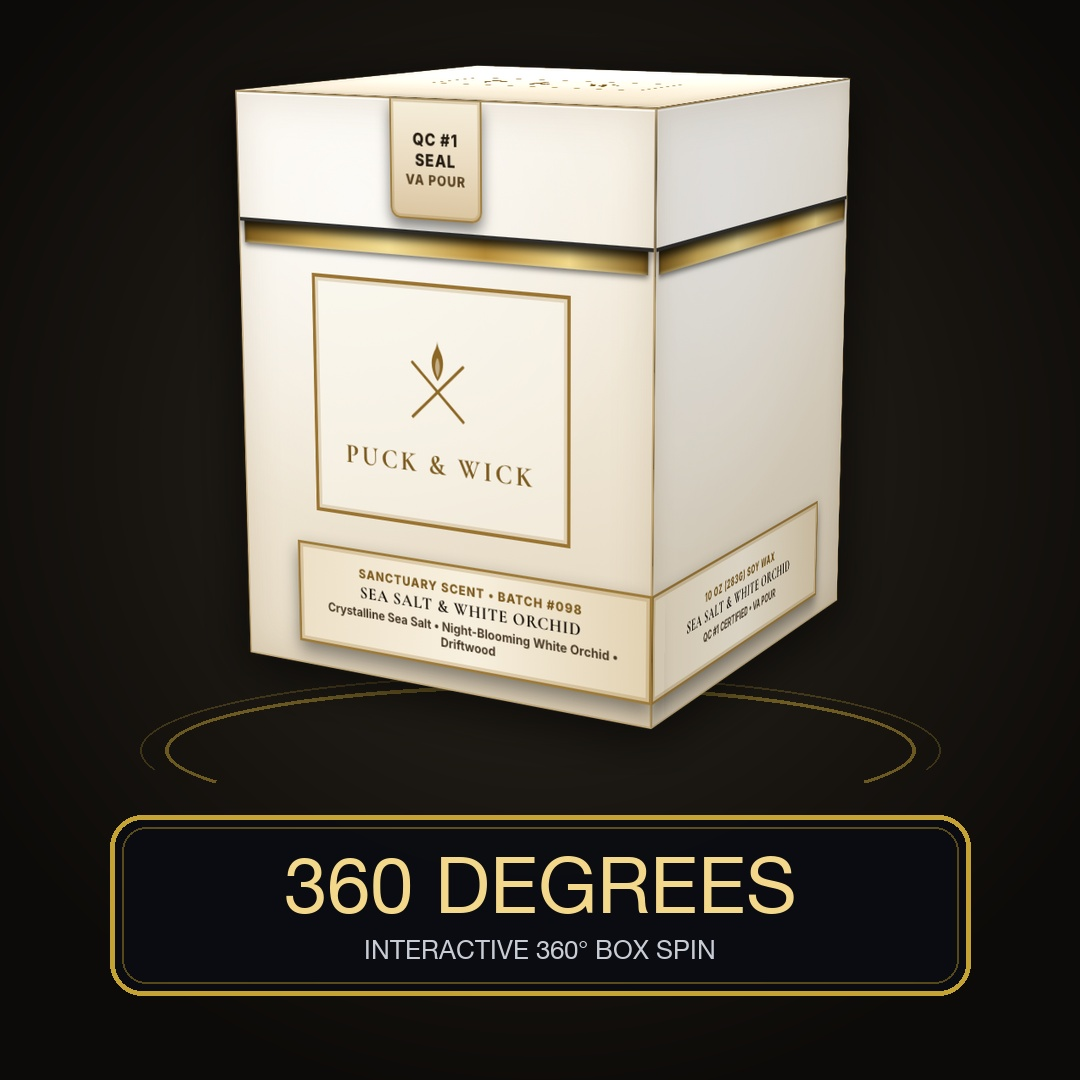
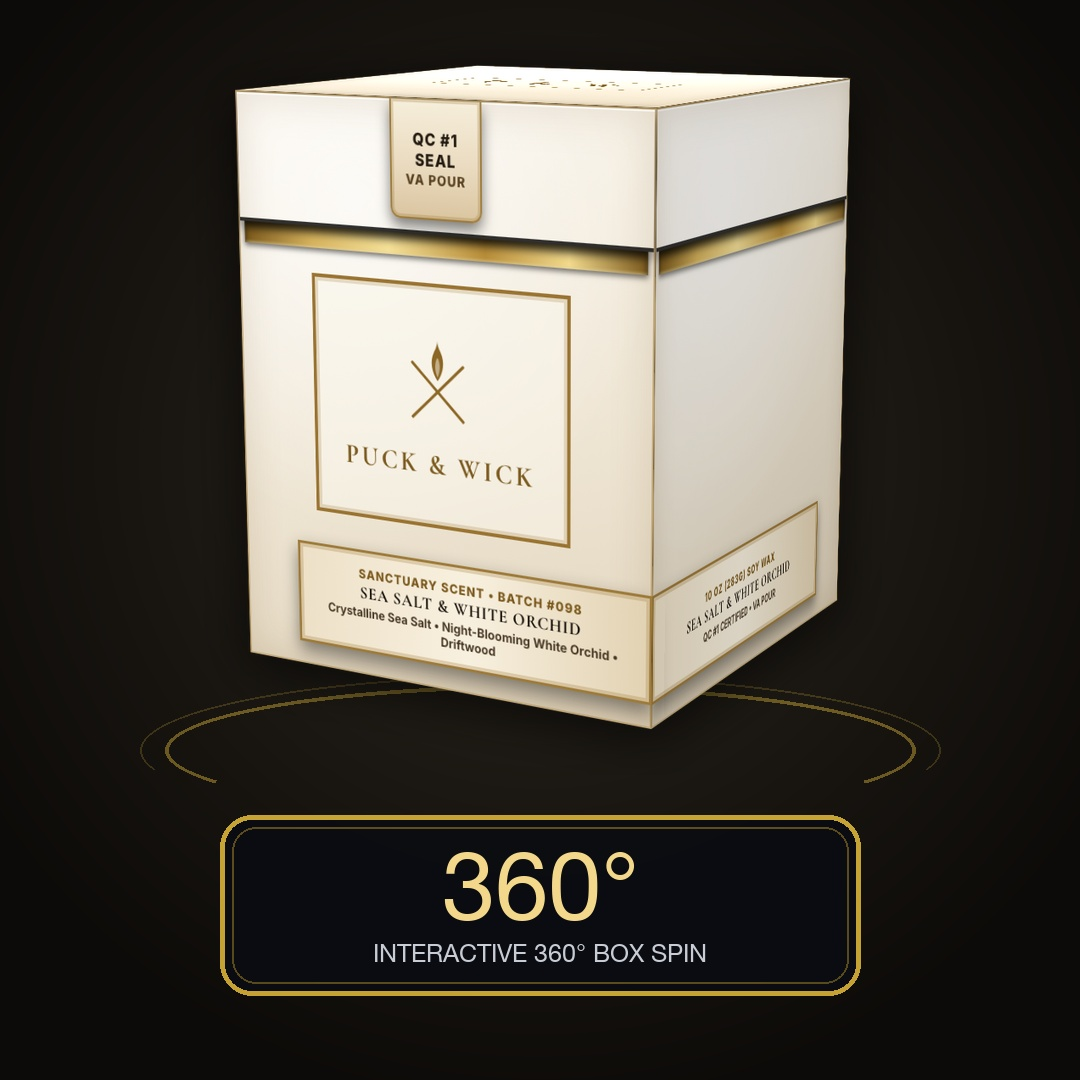
Remove bottom scent sticker from Box tab photos for all Men's & Women's candles and use 360° degree symbol (v46)

diff --git a/index.html b/index.html
@@ -33,40 +33,40 @@
   <meta name="twitter:image" content="https://puckandwick.com/assets/images/og-share-banner-v2.png">
 
   <!-- Core Theme & Layout Stylesheets (Cache-Busted v31) -->
-  <link rel="stylesheet" href="css/variables.css?v=45">
-  <link rel="stylesheet" href="css/base.css?v=45">
-  <link rel="stylesheet" href="css/nav.css?v=45">
-  <link rel="stylesheet" href="css/hero.css?v=45">
-  <link rel="stylesheet" href="css/catalog.css?v=45">
-  <link rel="stylesheet" href="css/modal.css?v=45">
-  <link rel="stylesheet" href="css/cart.css?v=45">
-  <link rel="stylesheet" href="css/checkout.css?v=45">
-  <link rel="stylesheet" href="css/box-builder.css?v=45">
-  <link rel="stylesheet" href="css/odor-science.css?v=45">
-  <link rel="stylesheet" href="css/brand-studio.css?v=45">
-  <link rel="stylesheet" href="css/story.css?v=45">
-  <link rel="stylesheet" href="css/stockist.css?v=45">
-  <link rel="stylesheet" href="css/footer.css?v=45">
-  <link rel="stylesheet" href="css/responsive.css?v=45">
+  <link rel="stylesheet" href="css/variables.css?v=46">
+  <link rel="stylesheet" href="css/base.css?v=46">
+  <link rel="stylesheet" href="css/nav.css?v=46">
+  <link rel="stylesheet" href="css/hero.css?v=46">
+  <link rel="stylesheet" href="css/catalog.css?v=46">
+  <link rel="stylesheet" href="css/modal.css?v=46">
+  <link rel="stylesheet" href="css/cart.css?v=46">
+  <link rel="stylesheet" href="css/checkout.css?v=46">
+  <link rel="stylesheet" href="css/box-builder.css?v=46">
+  <link rel="stylesheet" href="css/odor-science.css?v=46">
+  <link rel="stylesheet" href="css/brand-studio.css?v=46">
+  <link rel="stylesheet" href="css/story.css?v=46">
+  <link rel="stylesheet" href="css/stockist.css?v=46">
+  <link rel="stylesheet" href="css/footer.css?v=46">
+  <link rel="stylesheet" href="css/responsive.css?v=46">
 
   <!-- Module Cache-Busting Import Map (Forces Fresh Fetch of All ES Modules) -->
   <script type="importmap">
   {
     "imports": {
-      "./js/app.js": "./js/app.js?v=45",
-      "./js/data/products.js": "./js/data/products.js?v=45",
-      "./js/data/box-data.js": "./js/data/box-data.js?v=45",
-      "./js/data/logos.js": "./js/data/logos.js?v=45",
-      "./js/utils/svg-assets.js": "./js/utils/svg-assets.js?v=45",
-      "./js/modules/navigation.js": "./js/modules/navigation.js?v=45",
-      "./js/modules/catalog.js": "./js/modules/catalog.js?v=45",
-      "./js/modules/modal.js": "./js/modules/modal.js?v=45",
-      "./js/modules/cart.js": "./js/modules/cart.js?v=45",
-      "./js/modules/checkout.js": "./js/modules/checkout.js?v=45",
-      "./js/modules/box-builder.js": "./js/modules/box-builder.js?v=45",
-      "./js/modules/brand-studio.js": "./js/modules/brand-studio.js?v=45",
-      "./js/modules/jar-mockup.js": "./js/modules/jar-mockup.js?v=45",
-      "./js/modules/payment-adapters.js": "./js/modules/payment-adapters.js?v=45"
+      "./js/app.js": "./js/app.js?v=46",
+      "./js/data/products.js": "./js/data/products.js?v=46",
+      "./js/data/box-data.js": "./js/data/box-data.js?v=46",
+      "./js/data/logos.js": "./js/data/logos.js?v=46",
+      "./js/utils/svg-assets.js": "./js/utils/svg-assets.js?v=46",
+      "./js/modules/navigation.js": "./js/modules/navigation.js?v=46",
+      "./js/modules/catalog.js": "./js/modules/catalog.js?v=46",
+      "./js/modules/modal.js": "./js/modules/modal.js?v=46",
+      "./js/modules/cart.js": "./js/modules/cart.js?v=46",
+      "./js/modules/checkout.js": "./js/modules/checkout.js?v=46",
+      "./js/modules/box-builder.js": "./js/modules/box-builder.js?v=46",
+      "./js/modules/brand-studio.js": "./js/modules/brand-studio.js?v=46",
+      "./js/modules/jar-mockup.js": "./js/modules/jar-mockup.js?v=46",
+      "./js/modules/payment-adapters.js": "./js/modules/payment-adapters.js?v=46"
     }
   }
   </script>
@@ -646,6 +646,6 @@
   </footer>
 
   <!-- Application Bootstrap Module -->
-  <script type="module" src="js/app.js?v=45"></script>
+  <script type="module" src="js/app.js?v=46"></script>
 </body>
 </html>

diff --git a/js/data/products.js b/js/data/products.js
@@ -473,9 +473,9 @@ export function getProductGallerySlides(product, conceptId = 1) {
 
   if (!product.productType || product.productType === 'candle') {
     const atelierCardImg = product.vesselType === 'ivory'
-      ? 'assets/images/packaging/atelier-card-ivory.jpg?v=44'
-      : 'assets/images/packaging/atelier-card-obsidian.jpg?v=44';
-    const thumb360Img = `assets/images/packaging/thumb-360-${product.id}.jpg?v=44`;
+      ? 'assets/images/packaging/atelier-card-ivory.jpg?v=46'
+      : 'assets/images/packaging/atelier-card-obsidian.jpg?v=46';
+    const thumb360Img = `assets/images/packaging/thumb-360-${product.id}.jpg?v=46`;
     return [
       {
         id: 'lit',
@@ -487,10 +487,10 @@ export function getProductGallerySlides(product, conceptId = 1) {
       {
         id: 'shelf',
         shortLabel: 'Box',
-        title: `${product.name} — Rigid Box, Custom Scent Band & Wax Dust Cover`,
+        title: `${product.name} — Rigid Two-Piece Collector Box & 10 oz Soy Vessel`,
         type: 'image',
-        src: `assets/images/packaging/shelf-${product.id}.jpg?v=44`,
-        thumb: `assets/images/packaging/shelf-${product.id}.jpg?v=44`
+        src: `assets/images/packaging/shelf-${product.id}.jpg?v=46`,
+        thumb: `assets/images/packaging/shelf-${product.id}.jpg?v=46`
       },
       {
         id: 'atelier_card',
@@ -502,8 +502,8 @@ export function getProductGallerySlides(product, conceptId = 1) {
       },
       {
         id: 'spin360',
-        shortLabel: '360 Degrees',
-        title: `${product.name} — 360 Degrees Interactive Rotating Collector Box`,
+        shortLabel: '360°',
+        title: `${product.name} — Interactive 360° Rotating Collector Box`,
         type: 'box360',
         src: thumb360Img,
         thumb: thumb360Img
